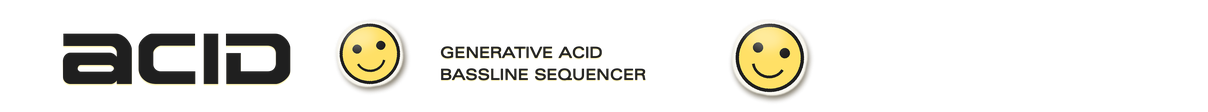
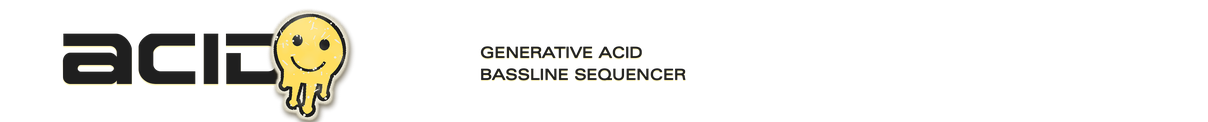
Skin: one weathered smiley sticker, melting into drips, stuck over the end of the wordmark
Claude-Session: https://claude.ai/code/session_01BT44k2Zw9AZ3DeCdKWoVfR

Changed region(s): [[0.0306, 0.0804, 0.3369, 1.0], [0.3675, 0.2143, 0.6738, 0.9107]]

diff --git a/vst/make_module_art.py b/vst/make_module_art.py
@@ -231,32 +231,76 @@ FONTS = os.path.join(HERE, "fonts")
 INK = (31, 31, 31)
 
 
-def smiley_sticker(r, tilt):
-    """The acid smiley as a vinyl sticker: yellow print with its drips, a white die-cut border, a gloss and a shadow."""
+def smiley_sticker(r, tilt, seed=303):
+    """The acid smiley as an old vinyl sticker: the yellow face melting into drips that run and bead at their ends,
+    a white die-cut border that follows them, then wear: faded print, scuffs through the ink to the vinyl, grime
+    along the edges, a lifted corner's shadow."""
+    import random
+    rnd = random.Random(seed)
     k = SS
     R = r * k
-    s = int(2.8 * R)
+    s = int(3.4 * R)
     c = s / 2
+    cy = c - 0.35 * R
     art = Image.new("RGBA", (s, s), (0, 0, 0, 0))
     d = ImageDraw.Draw(art)
-    y = (255, 224, 102, 255)
-    d.ellipse((c - R, c - R, c + R, c + R), fill=y, outline=INK + (255,), width=int(0.1 * R))
-    for ex in (-0.4, 0.4):
-        d.ellipse((c + ex * R - 0.15 * R, c - 0.37 * R, c + ex * R + 0.15 * R, c - 0.08 * R), fill=INK + (255,))
-    d.arc((c - 0.5 * R, c - 0.35 * R, c + 0.5 * R, c + 0.6 * R), start=20, end=160, fill=INK + (255,), width=int(0.08 * R))
-    # die-cut border: the art's silhouette grown, in white
-    sil = art.getchannel("A").point(lambda v: 255 if v > 20 else 0)
-    border = sil.filter(ImageFilter.MaxFilter(int(0.18 * R) | 1)).filter(ImageFilter.GaussianBlur(0.6 * k))
+    y = (255, 222, 96, 255)
+    # drips: a run from the face's lower edge, narrowing, ending in a round bead
+    for ang, length, wd in ((-38, 0.42, 0.19), (-12, 0.7, 0.24), (14, 0.6, 0.21), (36, 0.32, 0.17)):
+        x0, y0 = polar(c, cy, R * 0.92, 180 + ang)
+        top_w, neck = wd * R, wd * R * 0.62
+        yb = y0 + length * R
+        d.polygon([(x0 - top_w, y0 - 0.15 * R), (x0 + top_w, y0 - 0.15 * R), (x0 + neck, yb), (x0 - neck, yb)], fill=y)
+        bead = wd * R * 0.95
+        d.ellipse((x0 - bead, yb - bead * 0.9, x0 + bead, yb + bead * 1.1), fill=y)
+    d.ellipse((c - R, cy - R, c + R, cy + R), fill=y)
+    sil = art.getchannel("A")
+    # outline the whole melted shape, then the face
+    edge = ImageChops.subtract(sil, sil.filter(ImageFilter.MinFilter(int(0.16 * R) | 1)))   # an ink line inside the edge
+    ink = Image.new("RGBA", (s, s), INK + (0,))
+    ink.putalpha(edge)
+    art.alpha_composite(ink)
+    d = ImageDraw.Draw(art)
+    for ex in (-0.38, 0.38):
+        d.ellipse((c + ex * R - 0.14 * R, cy - 0.36 * R, c + ex * R + 0.14 * R, cy - 0.06 * R), fill=INK + (255,))
+    d.arc((c - 0.52 * R, cy - 0.35 * R, c + 0.52 * R, cy + 0.6 * R), start=18, end=162, fill=INK + (255,), width=int(0.08 * R))
+    # die-cut vinyl border following the drips
+    full = art.getchannel("A").point(lambda v: 255 if v > 20 else 0)
+    border = full.filter(ImageFilter.MaxFilter(int(0.16 * R) | 1)).filter(ImageFilter.GaussianBlur(0.7 * k))
+    # wear: print faded in patches, scuffs through to the white vinyl
+    fade = Image.effect_noise((s // 24, s // 24), 60).resize((s, s), Image.BICUBIC).point(lambda v: 255 - max(0, v - 128) // 2)
+    worn = art.getchannel("A")
+    scuffs = Image.new("L", (s, s), 0)
+    sd = ImageDraw.Draw(scuffs)
+    for _ in range(26):
+        x, yy = rnd.uniform(0.2, 0.8) * s, rnd.uniform(0.1, 0.8) * s
+        L = rnd.uniform(0.05, 0.22) * R
+        a2 = rnd.uniform(0, 180)
+        x1, y1 = polar(x, yy, L, a2)
+        sd.line([(x, yy), (x1, y1)], fill=255, width=max(1, int(rnd.uniform(0.5, 1.6) * k)))
+    for _ in range(120):
+        x, yy = rnd.uniform(0, s), rnd.uniform(0, s)
+        rr = rnd.uniform(0.3, 1.2) * k
+        sd.ellipse((x - rr, yy - rr, x + rr, yy + rr), fill=255)
+    worn = ImageChops.multiply(ImageChops.subtract(worn, scuffs), fade)
+    art.putalpha(worn)
     st = Image.new("RGBA", (s, s), (0, 0, 0, 0))
     sh = Image.new("RGBA", (s, s), (40, 28, 0, 0))
-    sh.putalpha(ImageChops.offset(border, int(2 * k), int(3 * k)).filter(ImageFilter.GaussianBlur(2.5 * k)).point(lambda v: v * 150 // 255))
+    moved = Image.new("L", (s, s), 0)                 # shifted down-right (ImageChops.offset would wrap round)
+    moved.paste(border, (int(2 * k), int(3 * k)))
+    sh.putalpha(moved.filter(ImageFilter.GaussianBlur(2.5 * k)).point(lambda v: v * 150 // 255))
     st.alpha_composite(sh)
-    white = Image.new("RGBA", (s, s), (250, 248, 240, 0))
-    white.putalpha(border)
-    st.alpha_composite(white)
+    vinyl = Image.new("RGBA", (s, s), (238, 234, 218, 0))
+    vinyl.putalpha(border)
+    st.alpha_composite(vinyl)
     st.alpha_composite(art)
+    # grime collected along the edge, and a soft gloss
+    rim = ImageChops.subtract(border, border.filter(ImageFilter.MinFilter(int(0.07 * R) | 1))).filter(ImageFilter.GaussianBlur(1.2 * k))
+    grime = Image.new("RGBA", (s, s), (110, 92, 50, 0))
+    grime.putalpha(ImageChops.multiply(rim, Image.effect_noise((s, s), 70).point(lambda v: min(255, v + 40))).point(lambda v: v * 150 // 255))
+    st.alpha_composite(grime)
     gloss = Image.new("L", (s, s), 0)
-    ImageDraw.Draw(gloss).ellipse((c - 0.8 * R, c - 0.95 * R, c + 0.3 * R, c - 0.2 * R), fill=90)
+    ImageDraw.Draw(gloss).ellipse((c - 0.8 * R, cy - 0.95 * R, c + 0.3 * R, cy - 0.2 * R), fill=55)
     gl = Image.new("RGBA", (s, s), (255, 255, 255, 0))
     gl.putalpha(ImageChops.multiply(gloss.filter(ImageFilter.GaussianBlur(5 * k)), border))
     st.alpha_composite(gl)
@@ -265,8 +309,8 @@ def smiley_sticker(r, tilt):
 
 def top_band():
     """The wordmark printed on the yellow in charcoal (silk screen: flat ink, a faint light edge under it), the
-    tagline, and the two smileys stuck on as stickers. 1208 x 112, placed at x=36 y=88."""
-    w, h = 1208 * SS, 112 * SS
+    tagline, and the smiley stuck on over the D as an old sticker. 1208 x 122, placed at x=36 y=88."""
+    w, h = 1208 * SS, 122 * SS
     im = Image.new("RGBA", (w, h), (0, 0, 0, 0))
     d = ImageDraw.Draw(im)
     logo = ImageFont.truetype(os.path.join(FONTS, "Earth_Normal.ttf"), 72 * SS)
@@ -275,12 +319,15 @@ def top_band():
     tag = ImageFont.truetype(os.path.join(FONTS, "Univers_53_Extended_Regular.otf"), 15 * SS)
     for i, ln in enumerate(("GENERATIVE ACID", "BASSLINE SEQUENCER")):
         y = (52 + 22 * i) * SS
-        d.text((440 * SS, y + SS), ln, font=tag, fill=(255, 236, 140, 150), anchor="lm", stroke_width=SS // 2, stroke_fill=(255, 236, 140, 150))
-        d.text((440 * SS, y), ln, font=tag, fill=INK + (255,), anchor="lm", stroke_width=SS // 2, stroke_fill=INK + (255,))
-    for cx, cy, r, tilt in ((370, 54, 30, 9), (770, 58, 34, -12)):
-        st = smiley_sticker(r, tilt)
-        im.alpha_composite(st, (int(cx * SS - st.width / 2), int(cy * SS - st.height / 2)))
-    im.resize((1208, 112), Image.LANCZOS).save(os.path.join(IMG, "acid_top.png"), optimize=True)
+        d.text((480 * SS, y + SS), ln, font=tag, fill=(255, 236, 140, 150), anchor="lm", stroke_width=SS // 2, stroke_fill=(255, 236, 140, 150))
+        d.text((480 * SS, y), ln, font=tag, fill=INK + (255,), anchor="lm", stroke_width=SS // 2, stroke_fill=INK + (255,))
+    # the one sticker, stuck over the end of the D, its drips running down past the band
+    end = 60 + logo.getlength("ACID") / SS
+    r = 36
+    st = smiley_sticker(r, -9)
+    cx, cy = end + 14, 50
+    im.alpha_composite(st, (int(cx * SS - st.width / 2), int((cy + 0.35 * r) * SS - st.height / 2)))
+    im.resize((1208, 122), Image.LANCZOS).save(os.path.join(IMG, "acid_top.png"), optimize=True)
 
 
 if __name__ == "__main__":
